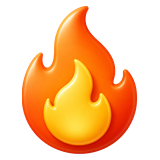
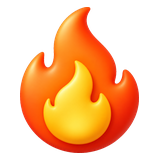
Polish chat reaction artwork; release 2.2.12

diff --git a/docs/chat-reaction-art.md b/docs/chat-reaction-art.md
@@ -22,6 +22,13 @@ Each is a 160 × 160 RGBA PNG under 45 KB.
 The exact prompts and original output locations are in
 [`chat-reaction-art-prompts.json`](./chat-reaction-art-prompts.json).
 
+The later expression revisions are recorded in
+[`balanced-style-transfer.json`](./reaction-face-revision/balanced-style-transfer.json).
+The current contour cleanup for Angry, Eyes, Wave, Clap, Thanks, Fire and Thinking
+is recorded in [`border-cleanup.json`](./reaction-face-revision/border-cleanup.json).
+These revisions replace drawn outer strokes and hard rim lighting with softer
+surface shading while retaining the reaction expressions and gestures.
+
 Built-in imagegen produced one image per reaction. The outputs contained baked
 checkerboard backgrounds, so user-authorized direct pixel cleanup removed the
 edge-connected background and resized the art with transparent padding. Original
